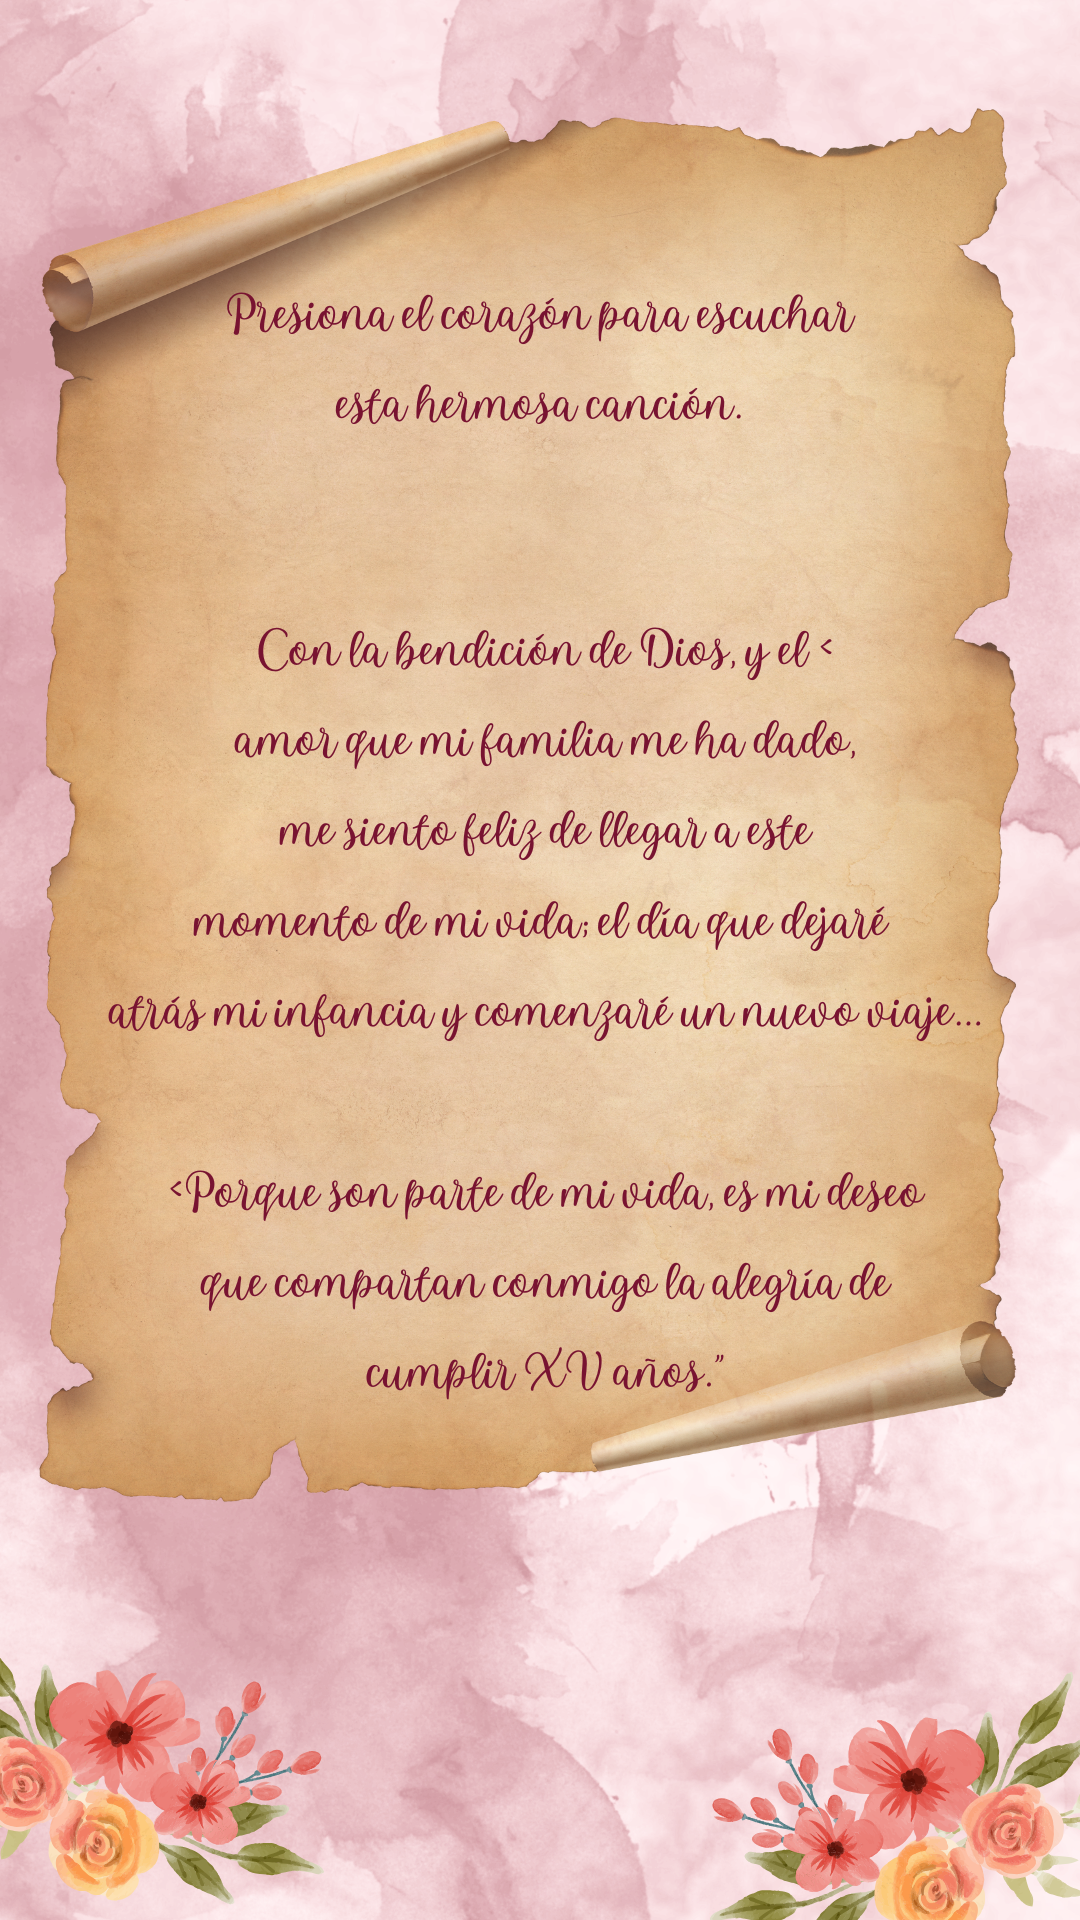
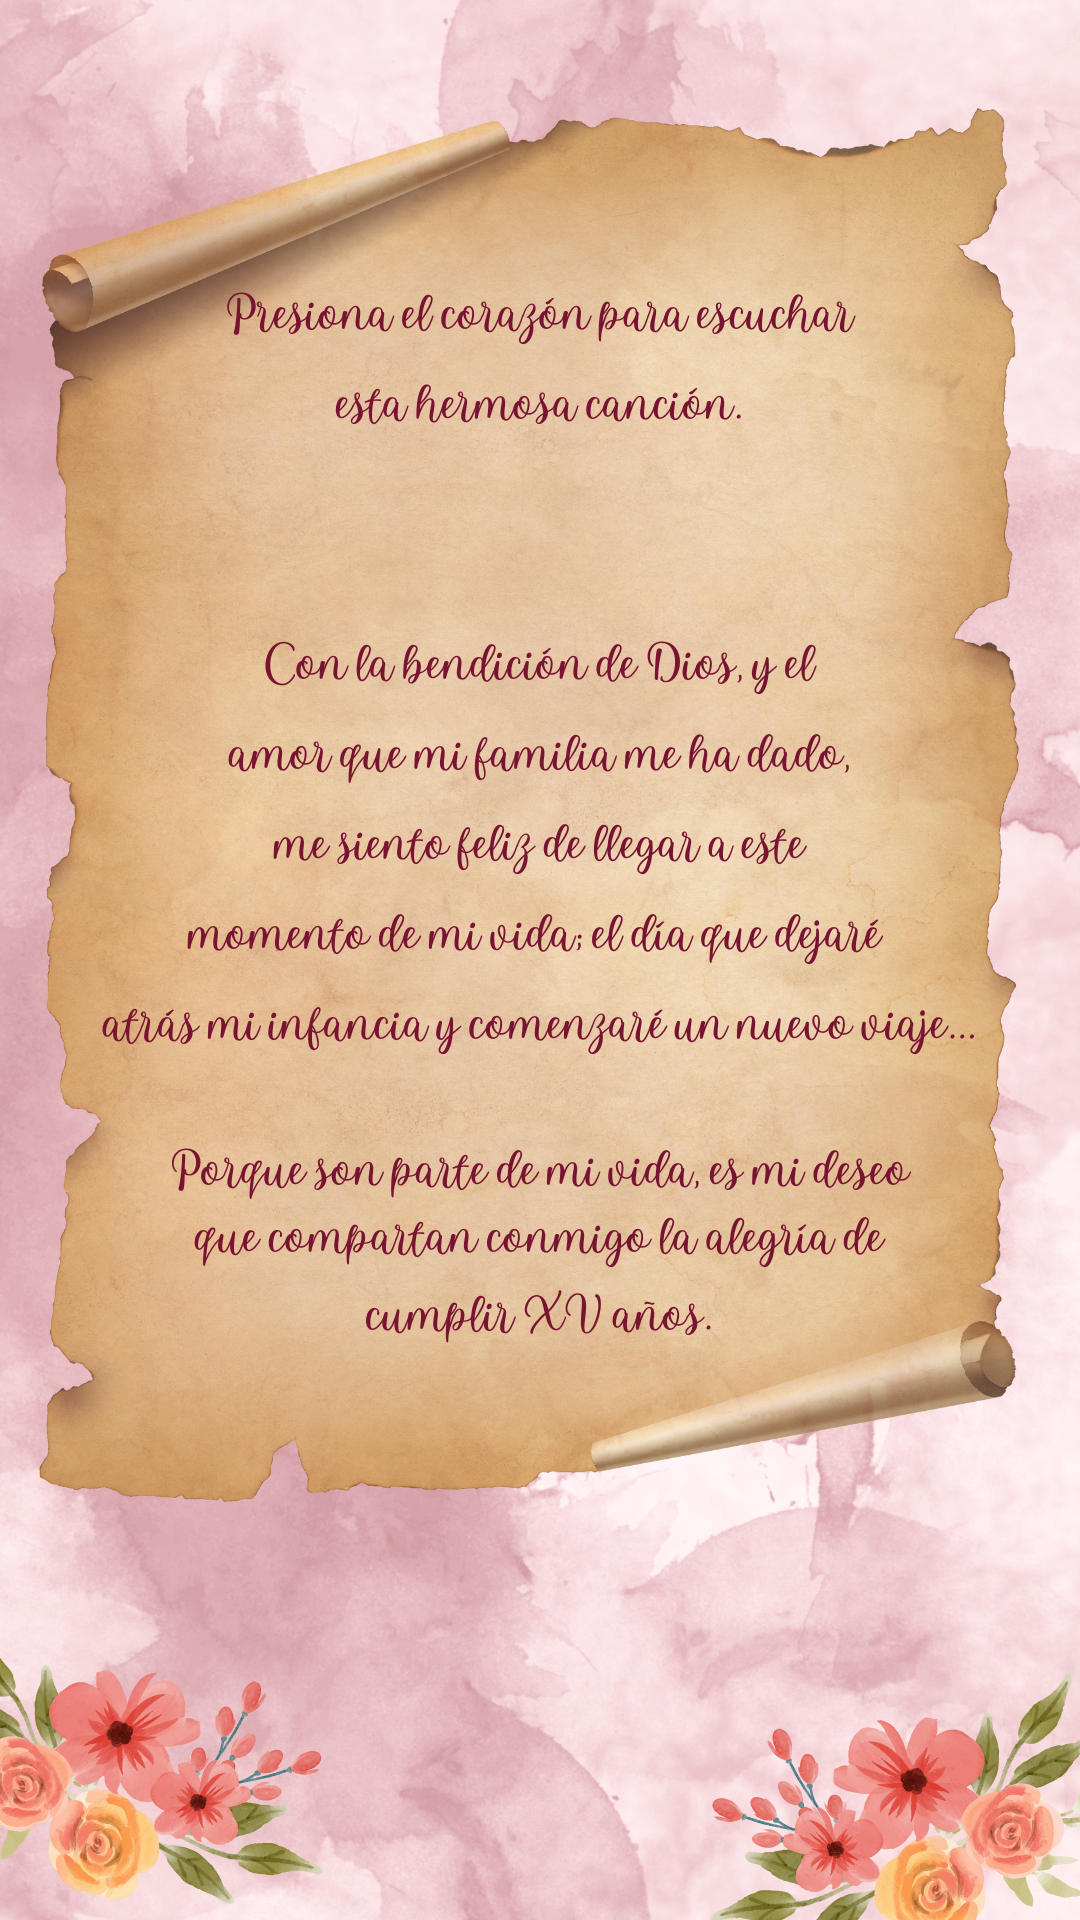
LAST UPDATE

Changed region(s): [[0.0917, 0.3125, 0.8861, 0.5625], [0.1528, 0.5938, 0.8556, 0.7188]]

diff --git a/styles.css b/styles.css
@@ -234,27 +234,28 @@ body {
 }
 
 .countdown-box {
-    background: #ffffff;
     border-radius: 8px;
-    box-shadow: 0 4px 6px rgba(0, 0, 0, 0.1);
     padding: 1%; /* Padding en porcentaje */
     width: 20%; /* Cada caja ocupa el 20% del ancho del contenedor */
-    max-width: 120px; /* Límite para evitar que crezcan demasiado en pantallas grandes */
+    max-width: 500px; /* Límite para evitar que crezcan demasiado en pantallas grandes */
     text-align: center;
     transition: transform 0.3s ease; /* Efecto suave al interactuar */
 }
 
 .countdown-box .value {
-    font-size: 2rem; /* Tamaño del texto principal */
-    font-weight: bold;
-    margin-bottom: 0.5em; /* Separación con la etiqueta */
+    font-size:  2.5rem; /* Tamaño del texto principal */
+    font-weight: regular;
+    text-align: center;
+    margin-bottom: 0.1em; /* Separación con la etiqueta */
+    margin-right: 0.4em; /* Separación con la parte superior */
+    margin-left: 0.4em; /* Separación con la parte inferior */
     color: #333333;
 }
 
 .countdown-box .label {
-    font-size: 0.9rem; /* Tamaño del texto de etiqueta */
+    font-size: 0.6rem; /* Tamaño del texto de etiqueta */
     color: #666666;
-    text-transform: uppercase;
+    text-align: center;
 }
 
 .slideshow-container {

diff --git a/index.html b/index.html
@@ -34,9 +34,9 @@
                 <div id="playContainer">
                     <button id="playBtn">❤</button>
                 </div>
-
+<br><br><br><br><br><br><br><br><br><br><br><br><br><br><br><br><br><br><br><br><br>
                 <audio id="audioPlayer">
-                    <source src="https://www.dropbox.com/scl/fi/ykgdeuaruz1wiyif5uyer/Hasta-mi-final.mp3?rlkey=pveffa70rn8gsjjf4fx9n42c4&st=532vlg84&dl=1" type="audio/mpeg">
+                    <source src="assets/song.mp3" type="audio/mpeg">
                     Tu navegador no soporta el formato de audio.
                 </audio>
             </div>
@@ -45,6 +45,7 @@
         <div id="mis15">
             <img src="assets/17.png" class="fondo-15" alt="">
             <div class="contenido-texto">
+                <br><br><br><br><br><br><br><br><br><br><br><br>
                 <div id="fecha">
                     <div class="countdown-container">
                         <div class="countdown-box">
@@ -131,8 +132,7 @@
             document.getElementById("hours").innerText = 0;
             document.getElementById("minutes").innerText = 0;
             document.getElementById("seconds").innerText = 0;
-            document.querySelector(".countdown-container").insertAdjacentHTML
-            ('beforeend', '<h3>Evento comenzado</h3>');
+
         }
     }, 1000);
 </script>